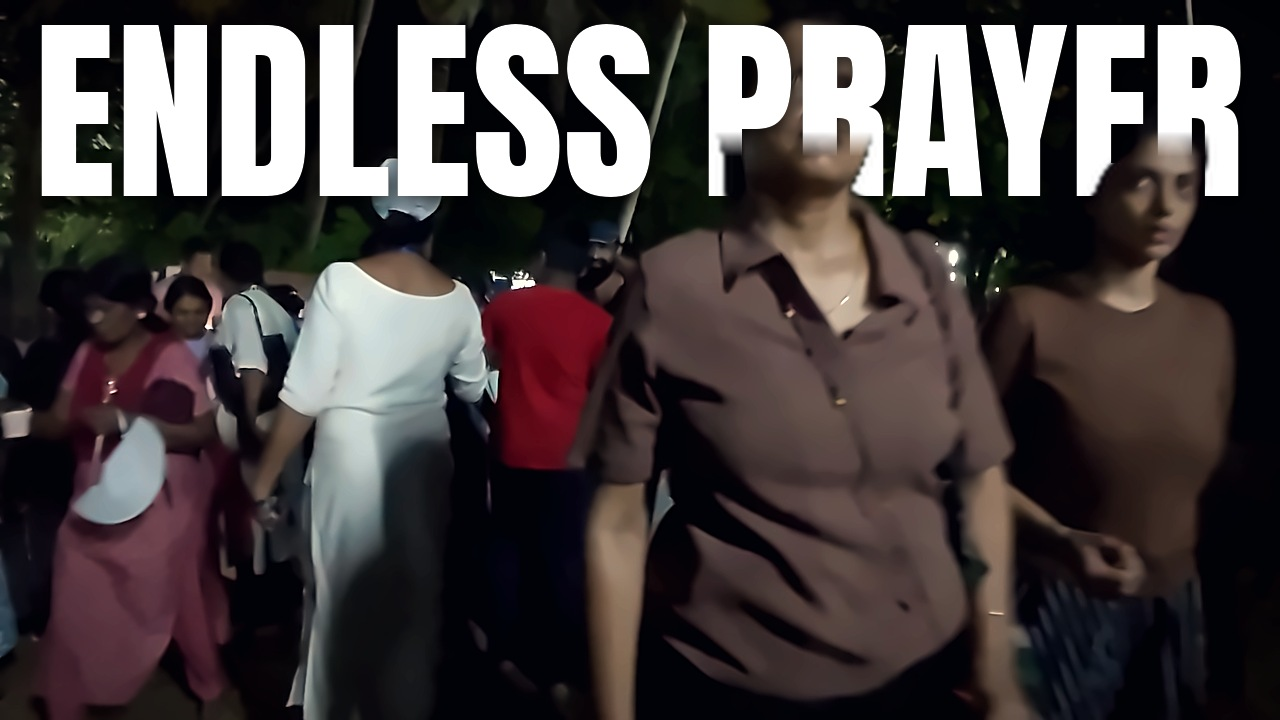
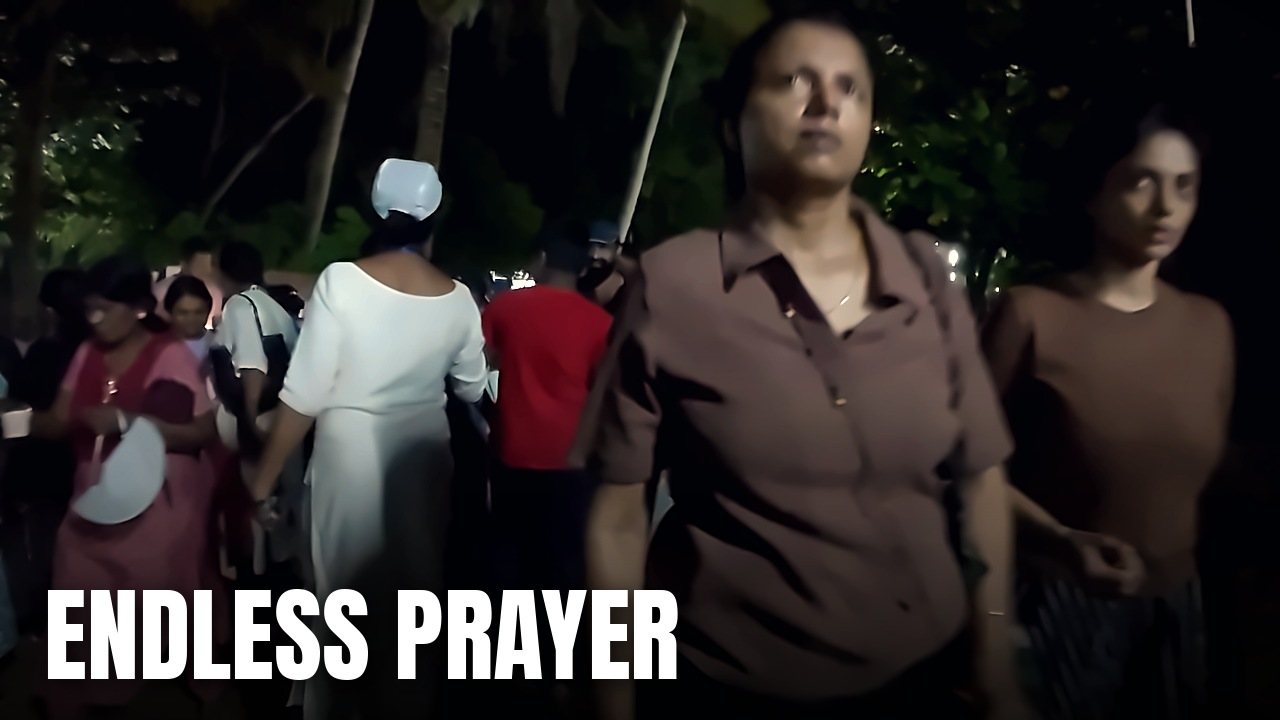
Copy: miniature v3 definitive (volto sempre libero dalla scritta, Insights 8/11)
Claude-Session: https://claude.ai/code/session_01Htfbh1edWrAWmq9z8TR8Ss

Changed region(s): [[0.0, 0.5806, 0.875, 1.0], [0.0312, 0.0306, 0.9688, 0.3056], [0.8438, 0.7333, 0.9062, 0.825]]

diff --git a/copioni/miniature_v3/miniature_v3.py b/copioni/miniature_v3/miniature_v3.py
@@ -75,10 +75,35 @@ def shadow_text(layer, xy, parts, font, sh=10, alpha=200):
     for t, c in parts:
         d.text((xx, y), t, font=font, fill=c); xx += d.textlength(t, font=font)
 
+_det = None
+def face_top(im):
+    # parte alta del volto più grande (YuNet), in pixel della miniatura; None se nessun volto
+    global _det
+    a = np.asarray(im.convert('RGB'))[:, :, ::-1].copy()
+    _det = _det or cv2.FaceDetectorYN.create('work/volti/model/face_detection_yunet_2023mar.onnx', '', (W, H), 0.6, 0.3, 50)
+    _det.setInputSize((W, H)); _, fs = _det.detect(a)
+    if fs is None: return None
+    f = max(fs, key=lambda f: f[2] * f[3]); return f[1] - f[3] * 0.35   # fronte e capelli compresi
+
+def text_bottom(layout, text, top):
+    if layout == 'basso': return None
+    f = fit(text, ANTON, W - 70 if layout == 'dietro' else W - 120, max_h=250 if layout == 'dietro' else 150)
+    bb = ImageDraw.Draw(Image.new('L', (10, 10))).textbbox((0, 0), text, font=f)
+    return top + (bb[3] - bb[1])
+
 def make(name, video, lang, src, t, cx, cy, zoom, layout, text, night=False, flip=False, red=None, top=24):
-    base = grade(crop(Image.open(frame(src, t)).convert('RGB'), cx, cy, zoom), night, flip).convert('RGBA')
+    # Regola (Insights, 8/11, dati del reel B): il volto è sempre libero, la scritta mai sopra il viso.
+    # Se il volto tocca la fascia del testo, il ritaglio si alza finché il volto è sotto la scritta.
+    src_im = Image.open(frame(src, t)).convert('RGB')
+    base = grade(crop(src_im, cx, cy, zoom), night, flip).convert('RGBA')
+    # spazio sopra il volto: la scritta sta tutta lì; se non basta (<90 px) si passa allo schema in basso
+    ft = face_top(base) if layout in ('dietro', 'citazione') else None
+    room = None if ft is None else int(ft) - top - 8
+    if room is not None and room < 90:
+        layout = 'basso'
+        if isinstance(text, str): text = ('', text.strip('“”'))
     if layout == 'dietro':       # parola enorme in alto, la persona davanti al testo
-        f = fit(text, ANTON, W - 70, max_h=250); d = ImageDraw.Draw(base)
+        f = fit(text, ANTON, W - 70, max_h=min(250, room) if room else 250); d = ImageDraw.Draw(base)
         bb = d.textbbox((0, 0), text, font=f); x = (W - (bb[2] - bb[0])) // 2 - bb[0]
         txt = Image.new('RGBA', (W, H), (0, 0, 0, 0))
         parts = [(w + ' ', RED if (red and w in red) else WHITE) for w in text.split(' ')]
@@ -86,7 +111,7 @@ def make(name, video, lang, src, t, cx, cy, zoom, layout, text, night=False, fli
         shadow_text(txt, (x, top - bb[1]), parts, f)
         out = Image.alpha_composite(base, txt)
         # la persona copre solo la parte bassa delle lettere: la parola resta leggibile
-        th = bb[3] - bb[1]; ycut = int(top + th * 0.62)
+        th = bb[3] - bb[1]; ycut = int(top + th + 4)
         ramp = np.clip((np.arange(H) - ycut) / 25.0, 0, 1)[:, None] * np.ones((1, W))
         m = np.asarray(mask(base.convert('RGB')), np.float32) * ramp
         person = base.copy(); person.putalpha(Image.fromarray(m.astype('uint8')))
@@ -99,9 +124,9 @@ def make(name, video, lang, src, t, cx, cy, zoom, layout, text, night=False, fli
         d = ImageDraw.Draw(out); bb = d.textbbox((0, 0), big, font=fb)
         y_big = H - 40 - bb[3]
         if small: shadow_text(out, (48, y_big + bb[1] - 58), [(small, WHITE)], fs, 6)
-        shadow_text(out, (44, y_big), [(big, RED if red else WHITE)], fb)
+        shadow_text(out, (44, y_big), [(big, RED if red is True else WHITE)], fb)
     else:                        # 'citazione': frase tra virgolette in alto, una parola rossa
-        f = fit(text, ANTON, W - 120, max_h=150); d = ImageDraw.Draw(base)
+        f = fit(text, ANTON, W - 120, max_h=min(150, room) if room else 150); d = ImageDraw.Draw(base)
         bb = d.textbbox((0, 0), text, font=f); x = (W - (bb[2] - bb[0])) // 2 - bb[0]
         parts = [(w + ' ', RED if (red and w.strip('“”"') in red) else WHITE) for w in text.split(' ')]
         parts[-1] = (parts[-1][0].strip(), parts[-1][1])
@@ -140,8 +165,8 @@ J = {
      it='40 ANNI A MANO', en='40 YEARS BY HAND'),
  ('coir', 'C2_sorriso'): dict(src=g(C, '0542'), t=6.0, cx=.48, cy=.5, zoom=1.5, layout='basso', red=True,
      it=('PER UN TAPPETO', '80 CENTESIMI'), en=('FOR ONE RUG', '80 CENTS')),
- ('coir', 'C3_corda'): dict(src=g(C, '0069'), t=1.5, cx=.42, cy=.45, zoom=1.4, layout='dietro', red=['4€', '€4'],
-     it='4€ AL GIORNO', en='€4 A DAY'),
+ ('coir', 'C3_corda'): dict(src=g(C, '0069'), t=1.5, cx=.42, cy=.45, zoom=1.4, layout='basso', red=True,
+     it=('PER UNA GIORNATA', '4€ AL GIORNO'), en=('FOR A FULL DAY', '€4 A DAY')),
  ('coir', 'C4_laguna'): dict(src=g(C, '0052'), t=3.0, cx=.5, cy=.55, zoom=1.35, layout='dietro',
      it='MADE IN INDIA', en='MADE IN INDIA'),
  ('coir', 'C5_manuel'): dict(src=g(C, '0050'), t=1.0, cx=.5, cy=.45, zoom=1.2, layout='basso',
